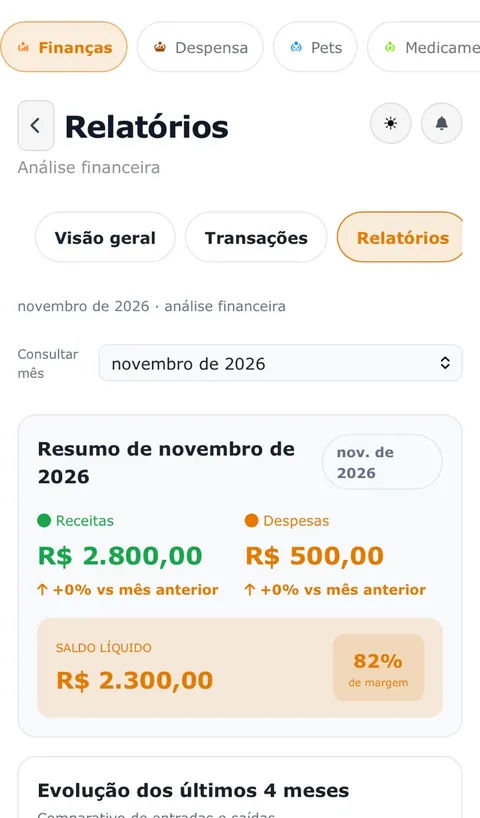
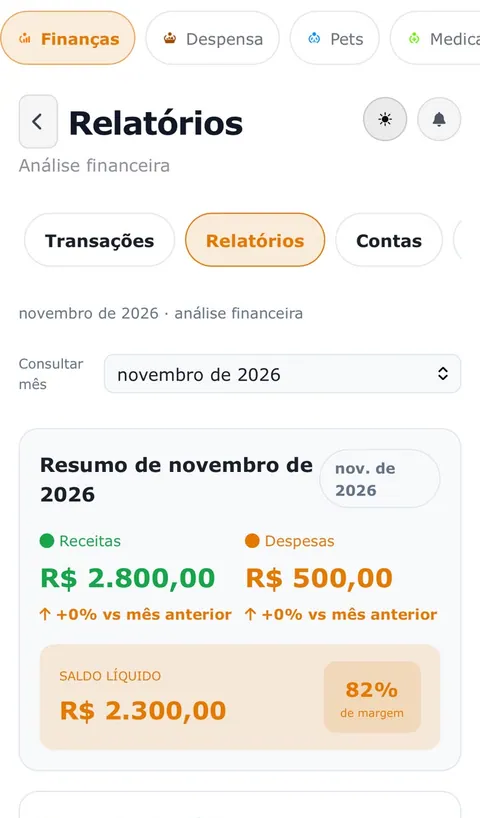
Ajusta header da home e imagens de relatórios

diff --git a/main/home/css/home.css b/main/home/css/home.css
@@ -72,24 +72,11 @@ body {
   justify-content: space-between;
 }
 
-@media (max-width: 400px) {
-  .cabecalho .container {
-    flex-direction: column;
-    align-items: center;
-    justify-content: center;
-    gap: 16px;
-    margin-top: 15px;
-  }
-
-  .cabecalho nav {
-    gap: 20px;
-  }
-}
-
 .marca {
   align-items: center;
   gap: 8px;
   min-height: 44px;
+  flex-shrink: 0;
 }
 
 .simbolo-marca {
@@ -134,9 +121,9 @@ body {
 }
 
 .botao-entrar {
-  width: 44px;
   border: 1px solid var(--border-color);
   background: var(--card-bg);
+  padding: 10px 12px;
 }
 
 .botao-criar,
@@ -148,21 +135,14 @@ body {
 }
 
 .acesso .botao-criar {
-  min-height: 40px;
+  min-height: 44px;
+  padding: 10px 16px;
 }
 
 .controle-tema {
   display: flex;
   justify-content: flex-end;
   padding-top: 4px;
-}
-
-@media (max-width: 400px) {
-  .controle-tema {
-    position: absolute;
-    top: 30px; 
-    right: 16px;
-  }
 }
 
 .apresentacao {

diff --git a/main/home/index.html b/main/home/index.html
@@ -102,7 +102,7 @@
             <img src="../assets/img/logo-keeperhub-wordmark-black.png" alt="KeeperHub" class="nome-marca nome-marca-claro" width="90" height="30" />
           </a>
           <nav class="acesso" id="header-actions" aria-label="Acesso e Cadastro">
-            <a href="../entrar/index.html" class="botao-entrar" id="btn-header-login" aria-label="Entrar na sua conta" title="Entrar na sua conta"><i class="fa-solid fa-arrow-right-from-bracket" aria-hidden="true"></i></a>
+            <a href="../entrar/index.html" class="botao-entrar" id="btn-header-login">Entrar</a>
             <a href="../criar-conta/index.html" class="botao-criar" id="btn-header-cta">Criar</a>
           </nav>
         </div>
